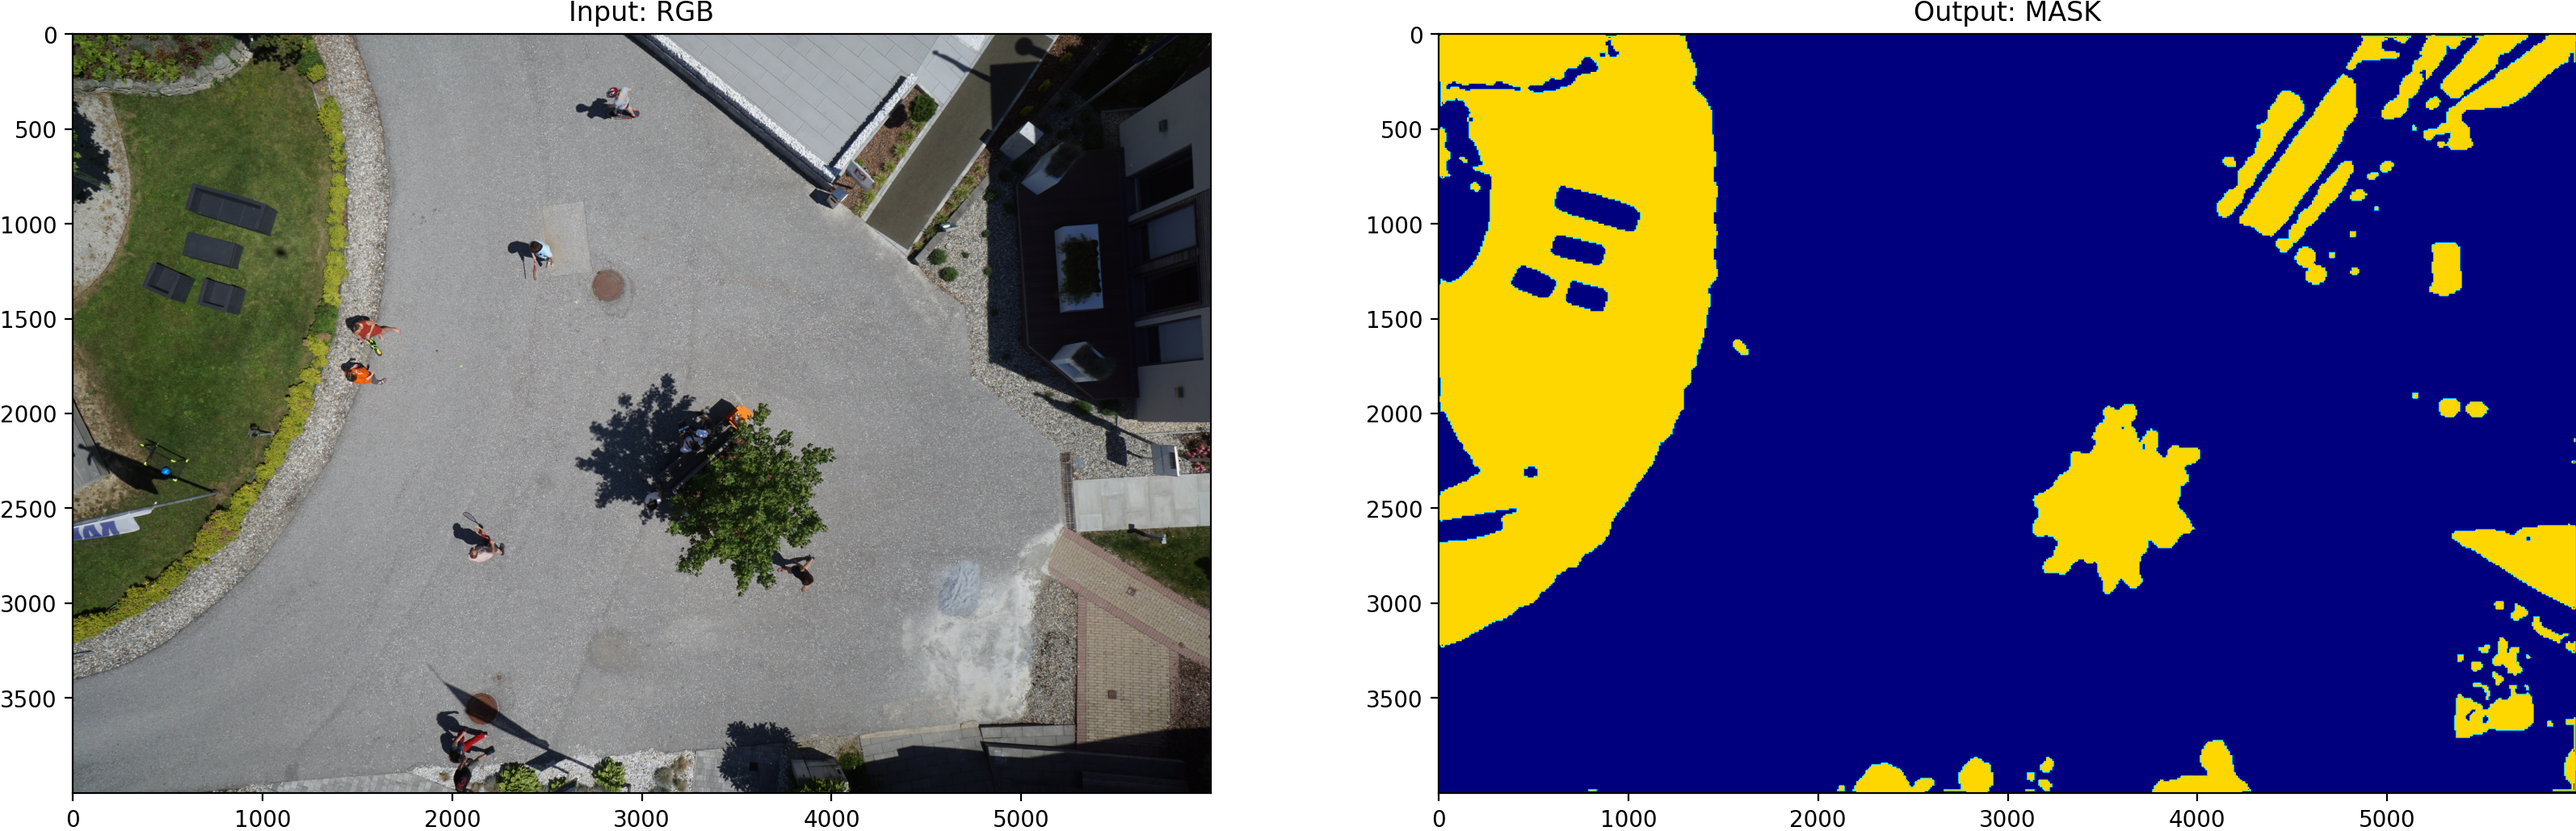
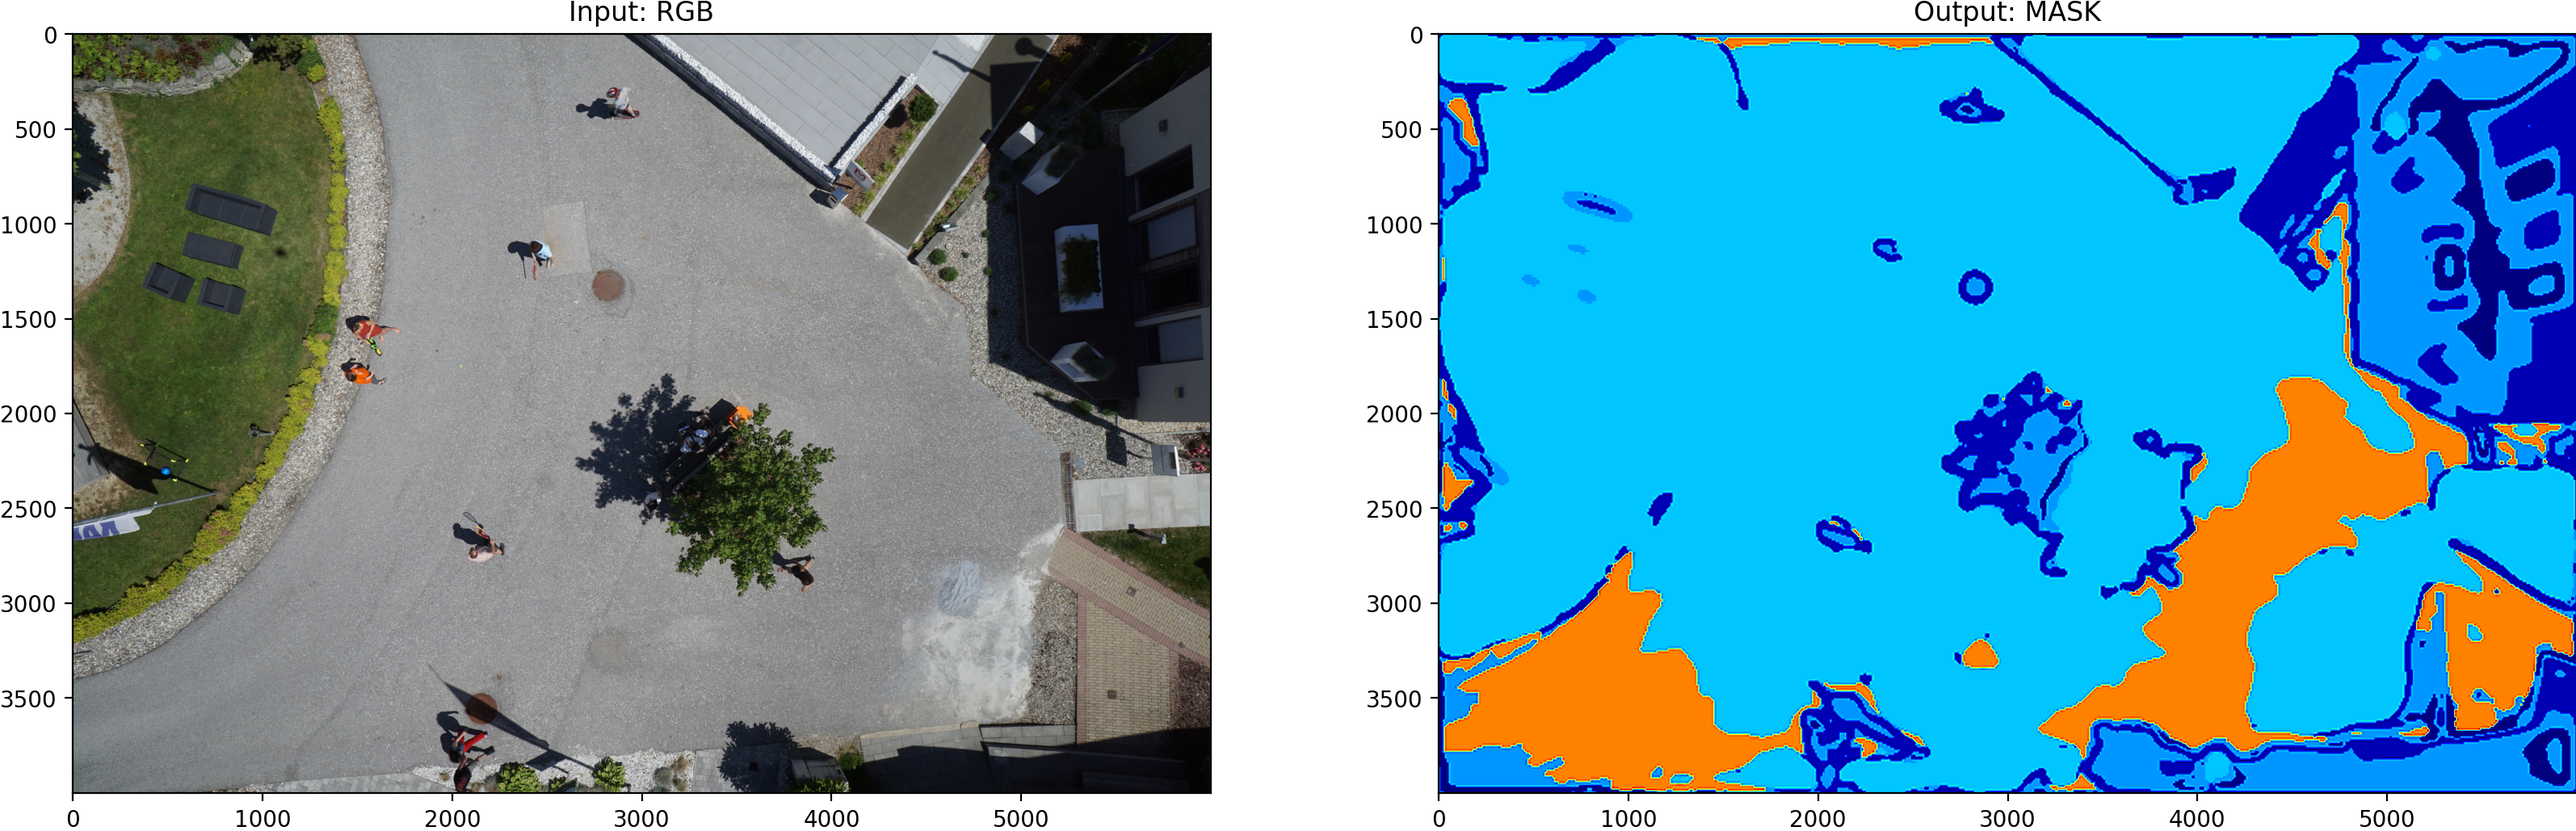
🐛  Fix index bugs

diff --git a/model_train.py b/model_train.py
@@ -51,7 +51,7 @@ dir_checkpoint = 'checkpoints/'
 LABEL_number = 23
 
 # DEBUG = True
-DEBUG = False
+DEBUG = True
 
 
 def train_net(net,
@@ -104,7 +104,8 @@ def train_net(net,
         optimizer, 'min' if net.n_classes > 1 else 'max', patience=2)
 
     if net.n_classes > 1:
-        criterion = nn.CrossEntropyLoss()
+        # Ref: https://pytorch.org/docs/stable/generated/torch.nn.CrossEntropyLoss.html
+        criterion = nn.CrossEntropyLoss() # The input is expected to contain raw, unnormalized scores for each class.
         # criterion = CrossEntropyLoss2d()
     else:
         criterion = nn.BCEWithLogitsLoss()
@@ -127,8 +128,7 @@ def train_net(net,
                 true_masks_temp = torch.squeeze(true_masks, dim=1)
 
                 masks_pred = net(imgs)
-                masks_pred = F.softmax(masks_pred, dim=1)
-
+                # masks_pred = F.softmax(masks_pred, dim=1)
                 # masks_pred = torch.argmax(masks_pred, dim=1)
                 loss = criterion(masks_pred, true_masks_temp)
 
@@ -159,9 +159,8 @@ def train_net(net,
                     writer.add_scalar(
                         'learning_rate', optimizer.param_groups[0]['lr'], global_step)
                     if net.n_classes > 1:
-                        # logging.info('Validation cross entropy: {}'.format(val_score))
-                        logging.info(
-                            'Validation Dice Coeff multilabel: {}'.format(val_score))
+                        logging.info('Validation cross entropy: {}'.format(val_score))
+                        # logging.info('Validation Dice Coeff multilabel: {}'.format(val_score))
                         writer.add_scalar('Loss/val', val_score, global_step)
                     else:
                         logging.info(
@@ -181,7 +180,6 @@ def train_net(net,
                             torch.long)  # same as true_masks
                         writer.add_images(
                             'masks/pred', masks_pred_temp, global_step)
-
         if save_cp:
             try:
                 os.mkdir(dir_checkpoint)
@@ -215,9 +213,8 @@ def eval_net(net, loader, device):
 
             if net.n_classes > 1:
                 true_masks = torch.squeeze(true_masks, dim=1)
-                # tot += F.cross_entropy(mask_pred, true_masks).item()
-                tot += dice_coeff_multilabel(true_masks,
-                                             mask_pred, LABEL_number)
+                tot += F.cross_entropy(mask_pred, true_masks).item()
+                # tot += dice_coeff_multilabel(true_masks, mask_pred, LABEL_number)
             else:
                 pred = torch.sigmoid(mask_pred)
                 pred = (pred > 0.5).float()

diff --git a/model_predict.py b/model_predict.py
@@ -50,7 +50,6 @@ def predict_img(net,
 
     with torch.no_grad():
         output = net(img)
-
         if net.n_classes > 1:
             probs = F.softmax(output, dim=1)
         else:
